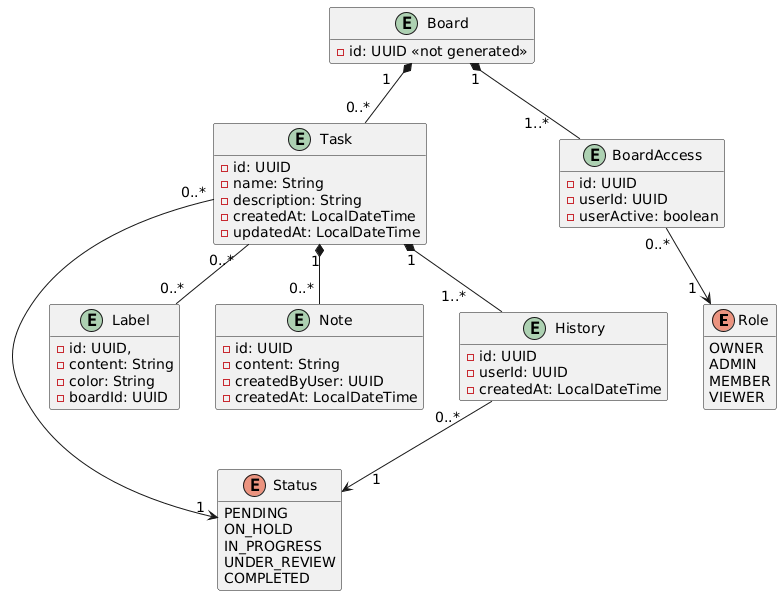
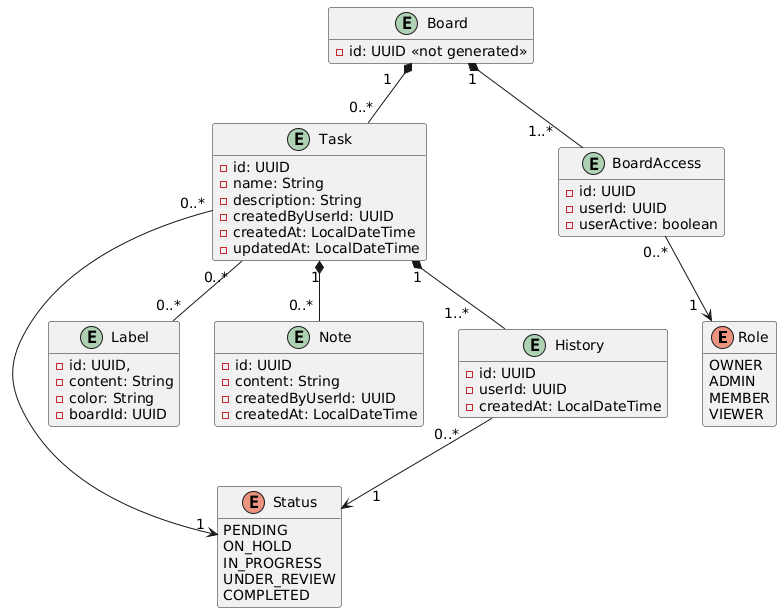
Documentar las respuestas 403 del microservicio Workflow
Se añade ejemplos detallados de respuesta 403 (Swagger) para los endpoints del microservicio Workflow, en notas y tareas, y actualiza el recurso del diagrama de flujo de trabajo. Esto clarifica los errores de autorización y de permisos basados en roles en la documentación de la API para los usuarios de la misma.

diff --git a/trelloparent/businessdomain/workflow/src/main/java/com/trello/workflow/task/controller/TaskRestController.java b/trelloparent/businessdomain/workflow/src/main/java/com/trello/workflow/task/controller/TaskRestController.java
@@ -230,6 +230,31 @@ public class TaskRestController {
                     }
                     """))),
 
+            @ApiResponse(responseCode = "403", description = "El usuario no tiene permisos para realizar esta operación", content = @Content(mediaType = "application/json", schema = @Schema(implementation = StandarizedApiExceptionResponse.class), examples = {
+                    @ExampleObject(name = "El usuario no es el autor del recurso solicitado", summary = "El usuario no es el autor del recurso solicitado", value = """
+                                {
+                                    "detail": "The user is not the author of the requested resource",
+                                    "fields": null,
+                                    "instance": null,
+                                    "message": "Ha ocurrido un error",
+                                    "status": 403,
+                                    "title": "Mismached Author",
+                                    "type": "/errors/mismached-author"
+                                }
+                            """),
+                    @ExampleObject(name = "El usuario no tiene el rol requerido para realizar la operación", summary = "El usuario no tiene el rol requerido para realizar la operación", value = """
+                                {
+                                    "detail": "The user does not have the required role to perform the operation",
+                                    "fields": null,
+                                    "instance": null,
+                                    "message": "Ha ocurrido un error",
+                                    "status": 403,
+                                    "title": "Forbidden operation",
+                                    "type": "/errors/forbidden-operation"
+                                }
+                            """)
+            })),
+
             @ApiResponse(responseCode = "404", description = "No se ha encontrado el recurso solicitado", content = @Content(mediaType = "application/json", schema = @Schema(implementation = StandarizedApiExceptionResponse.class), examples = {
                     @ExampleObject(name = "El permiso de acceso al tablero no existe", summary = "El permiso de acceso al tablero no existe", value = """
                             {
@@ -383,6 +408,31 @@ public class TaskRestController {
                         "type": "/errors/authentication/not-authenticated"
                     }
                     """))),
+
+            @ApiResponse(responseCode = "403", description = "", content = @Content(mediaType = "application/json", schema = @Schema(implementation = StandarizedApiExceptionResponse.class), examples = {
+                    @ExampleObject(name = "El usuario no es el autor del recurso solicitado", summary = "El usuario no es el autor del recurso solicitado", value = """
+                                {
+                                    "detail": "The user is not the author of the requested resource",
+                                    "fields": null,
+                                    "instance": null,
+                                    "message": "Ha ocurrido un error",
+                                    "status": 403,
+                                    "title": "Mismached Author",
+                                    "type": "/errors/mismached-author"
+                                }
+                            """),
+                    @ExampleObject(name = "El usuario no tiene el rol requerido para realizar la operación", summary = "El usuario no tiene el rol requerido para realizar la operación", value = """
+                                {
+                                    "detail": "The user does not have the required role to perform the operation",
+                                    "fields": null,
+                                    "instance": null,
+                                    "message": "Ha ocurrido un error",
+                                    "status": 403,
+                                    "title": "Forbidden operation",
+                                    "type": "/errors/forbidden-operation"
+                                }
+                            """)
+            })),
 
             @ApiResponse(responseCode = "404", description = "No se ha encontrado el recurso solicitado", content = @Content(mediaType = "application/json", schema = @Schema(implementation = StandarizedApiExceptionResponse.class), examples = {
                     @ExampleObject(name = "El permiso de acceso al tablero no existe", summary = "El permiso de acceso al tablero no existe", value = """

diff --git a/trelloparent/businessdomain/workflow/src/main/java/com/trello/workflow/note/controller/NoteRestController.java b/trelloparent/businessdomain/workflow/src/main/java/com/trello/workflow/note/controller/NoteRestController.java
@@ -204,7 +204,7 @@ public class NoteRestController {
                     }
                     """))),
 
-            @ApiResponse(responseCode = "403", description = "", content = @Content(mediaType = "application/json", schema = @Schema(implementation = StandarizedApiExceptionResponse.class), examples = {
+            @ApiResponse(responseCode = "403", description = "El usuario no tiene permisos para realizar esta operación", content = @Content(mediaType = "application/json", schema = @Schema(implementation = StandarizedApiExceptionResponse.class), examples = {
                     @ExampleObject(name = "El usuario no es el autor del recurso solicitado", summary = "El usuario no es el autor del recurso solicitado", value = """
                                 {
                                     "detail": "The user is not the author of the requested resource",
